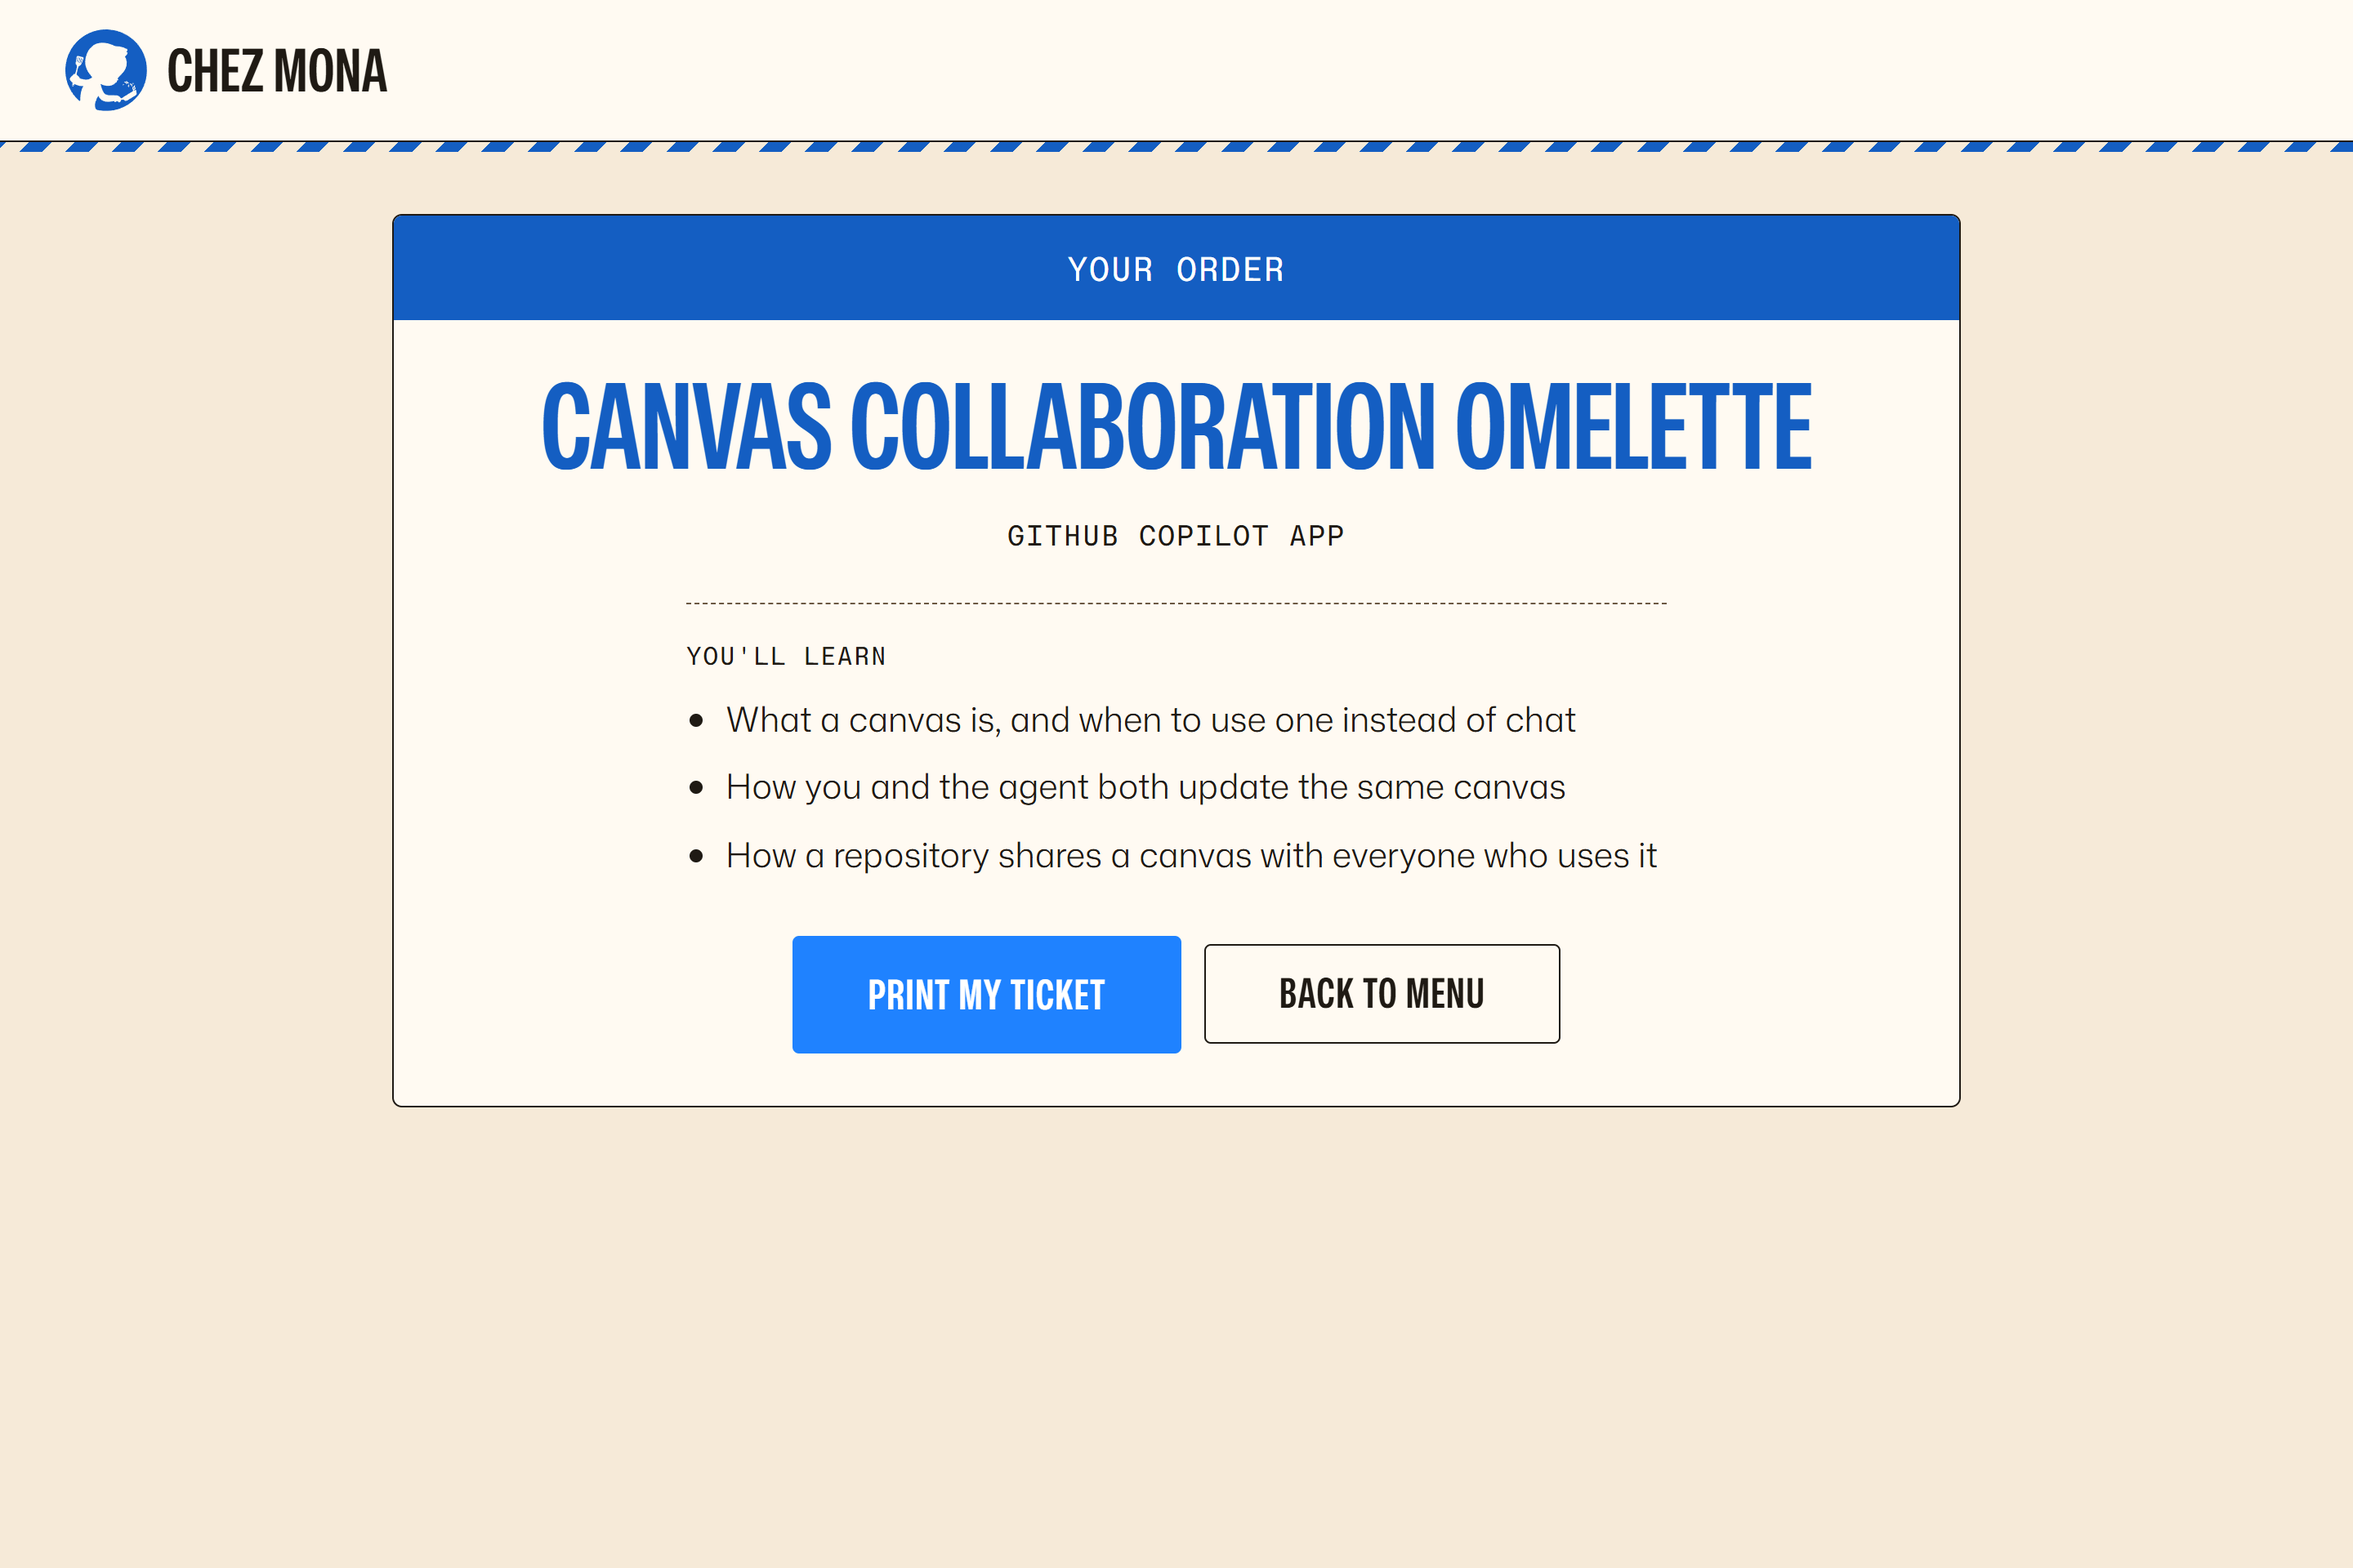
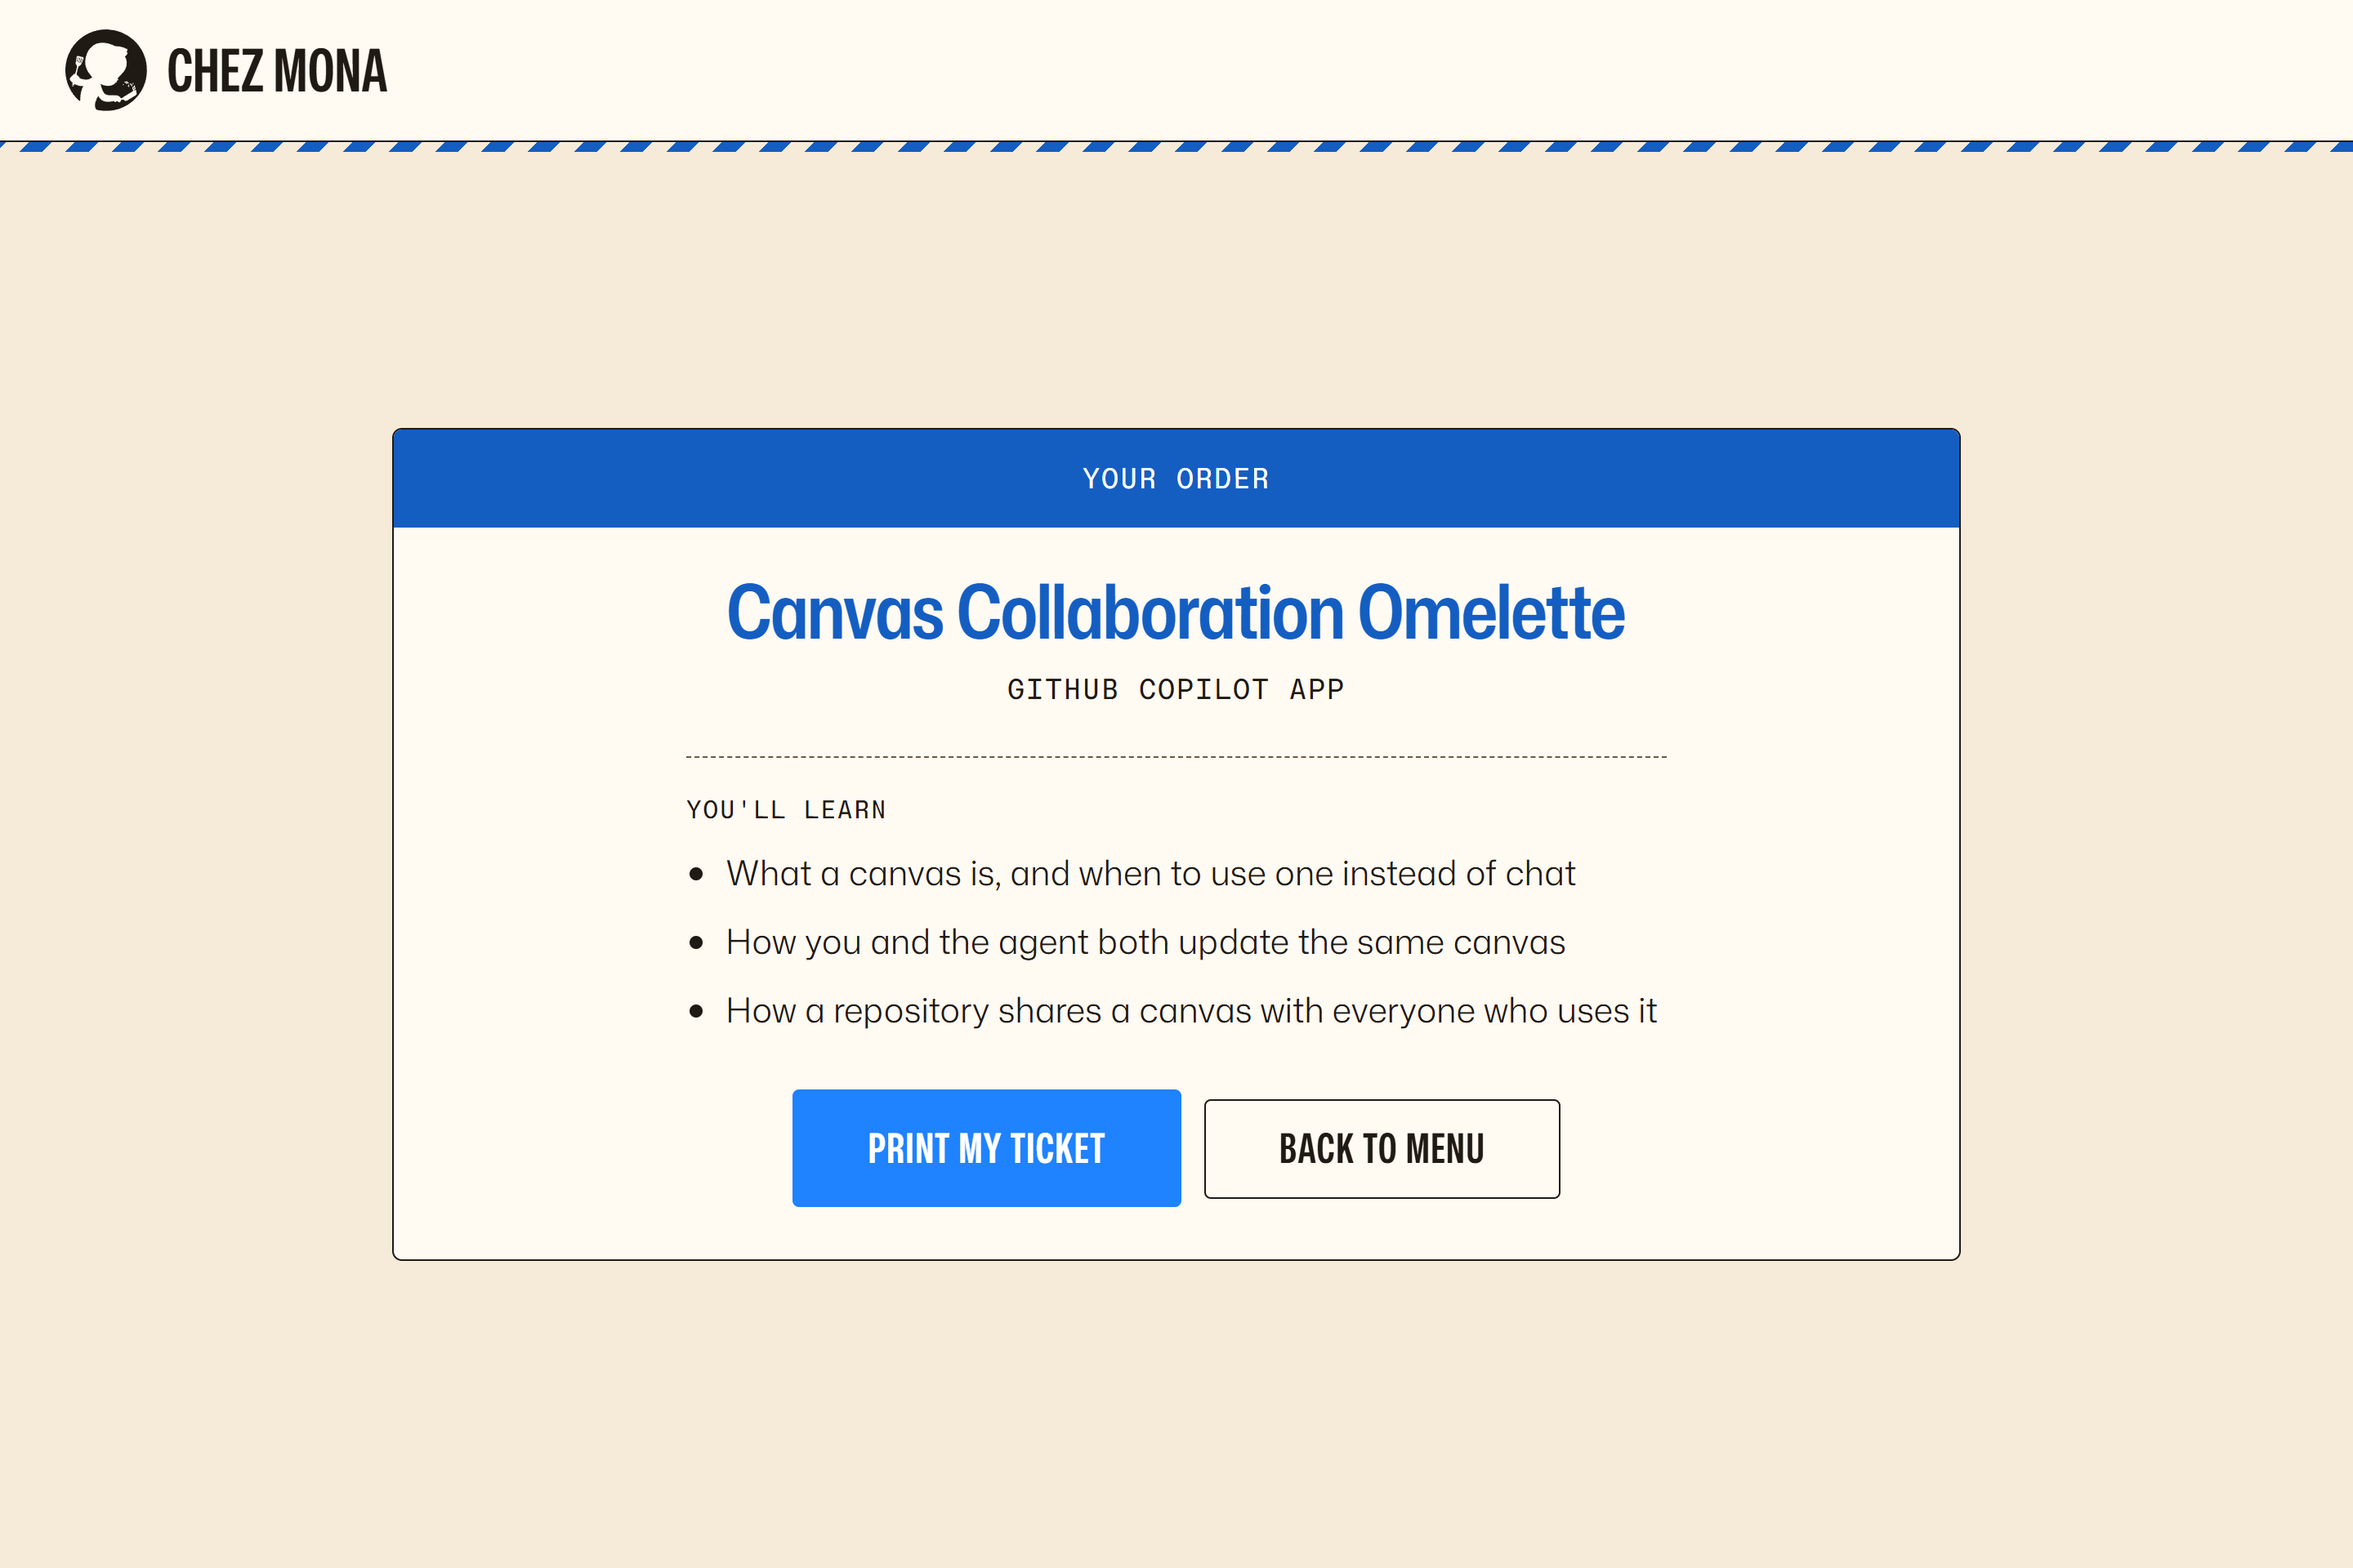
Apply launcher visual feedback
- Use Mona Sans Display SemiCondensed SemiBold in title case for titles
- Use Mona Sans Medium for taglines; split the menu tagline into two lines
- Recolor the Chez Mona logo to charcoal
- Title-case dish names; keep 'Fried Chicken' together on one line
- Fit the order title to the text block; match the order band label size
- Center single-card screens vertically
- Move 'Manually select a lab instead' under the camera
- Align step numbers with the top of each step card
- Refresh screenshots

diff --git a/launcher/static/app.css b/launcher/static/app.css
@@ -52,16 +52,16 @@ html, body {
   font-variant-ligatures: none;
   -webkit-font-smoothing: antialiased;
 }
-body { background: var(--kraft-wash); }
+body { background: var(--kraft-wash); display: flex; flex-direction: column; min-height: 100vh; }
 
 /* Type roles from the Universe'26 Mo's Diner menu, in signage cobalt:
-   condensed semibold caps = titles, light tracked mono = taglines,
+   Display SemiCondensed SemiBold = titles, medium = taglines,
    regular = body, light = descriptions, mono caps = one-line labels.
    No ligatures, per the Universe'26 typography guidelines. */
-h1, h2 {
-  font-stretch: 75%;
+h1, h2, .menu-dish {
+  font-stretch: 87.5%;
   font-weight: 600;
-  text-transform: uppercase;
+  font-variation-settings: "opsz" 72;
   color: var(--ink);
   line-height: 1;
   text-wrap: balance;
@@ -77,7 +77,7 @@ h2 { font-size: 2.4rem; margin: 0 0 0.45em; }
   text-transform: uppercase;
   color: var(--red);
 }
-.lede { font-family: var(--mono); font-size: 1.05rem; font-weight: 300; letter-spacing: 0.06em; color: var(--text); max-width: 38em; text-wrap: pretty; }
+.lede { font-size: 1.05rem; font-weight: 500; color: var(--text); max-width: 38em; text-wrap: pretty; }
 .muted { color: var(--text-soft); font-weight: 300; }
 .small { font-size: 0.85rem; }
 strong { font-weight: 600; }
@@ -199,7 +199,17 @@ button.link:hover:not(:disabled) { background: none; color: var(--blue); }
 .progress li.current::before { opacity: 0.75; }
 .progress[hidden] { display: none; }
 
-main { max-width: 1040px; margin: 0 auto; padding: 44px 40px 56px; }
+main {
+  flex: 1;
+  display: flex;
+  flex-direction: column;
+  width: 100%;
+  max-width: 1040px;
+  margin: 0 auto;
+  padding: 44px 40px 56px;
+}
+/* Single-card screens sit in the middle of the screen */
+main:has(> section.card) { justify-content: center; }
 
 .card {
   background: var(--paper);
@@ -212,10 +222,11 @@ main { max-width: 1040px; margin: 0 auto; padding: 44px 40px 56px; }
 /* Scan */
 .scan { display: grid; justify-items: center; gap: 10px; text-align: center; }
 .scan h1 { font-size: 3.2rem; margin: 0; }
-.scan .lede { margin: 0 0 12px; }
+.scan .lede { margin: 0 0 16px; }
+.scan #choose-lab { margin-top: 22px; }
 .camera {
   position: relative;
-  width: min(640px, 100%, calc(54vh * 4 / 3));
+  width: min(640px, 100%, calc(46vh * 4 / 3));
   aspect-ratio: 4 / 3;
   border-radius: var(--radius);
   overflow: hidden;
@@ -254,7 +265,7 @@ main { max-width: 1040px; margin: 0 auto; padding: 44px 40px 56px; }
   content: counter(step, decimal-leading-zero);
   position: absolute;
   left: 0;
-  top: 18px;
+  top: 0;
   width: 44px;
   height: 44px;
   border-radius: var(--radius-sm);
@@ -387,7 +398,7 @@ pre.detail {
 }
 .menu-item:hover:not(:disabled) { background: var(--kraft-pale); box-shadow: var(--shadow-lift); transform: translateY(-2px); }
 .menu-item:active:not(:disabled) { background: var(--kraft-soft); transform: scale(0.99); }
-.menu-dish { font-stretch: 75%; font-size: 2.4rem; font-weight: 600; text-transform: uppercase; line-height: 1; color: var(--ink); }
+.menu-dish { font-size: 2.1rem; line-height: 1.05; }
 .menu-lab {
   font-family: var(--mono);
   font-size: 0.75rem;
@@ -409,9 +420,10 @@ pre.detail {
   color: var(--white);
   font-family: var(--mono);
   font-weight: 400;
-  font-size: 1rem;
+  font-size: 0.85rem;
   letter-spacing: 1px;
 }
+.confirm h1 { font-size: 2.3rem; max-width: 600px; margin-left: auto; margin-right: auto; }
 .confirm-meta {
   font-family: var(--mono);
   font-size: 0.85rem;

diff --git a/launcher/static/app.js b/launcher/static/app.js
@@ -233,12 +233,12 @@ function renderScan() {
       <p class="eyebrow">Welcome to Chez Mona</p>
       <h1>Scan your ticket</h1>
       <p class="lede">Hold the QR code on your fridge ticket up to the camera.</p>
-      <button id="choose-lab">Manually select a lab instead</button>
       <div class="camera">
         <video id="video" muted playsinline></video>
         <div class="frame"></div>
         <div class="camera-msg" id="camera-msg" hidden></div>
       </div>
+      <button id="choose-lab">Manually select a lab instead</button>
       <p class="notice" id="scan-notice"></p>
     </section>`);
   on("choose-lab", renderMenu);
@@ -251,7 +251,7 @@ function renderMenu() {
     <section class="menu">
       <p class="eyebrow">Today's menu</p>
       <h1>Choose a lab</h1>
-      <p class="lede">Pick a dish by what you want to learn. Each takes about 5 minutes.</p>
+      <p class="lede">Choose a dish based on what you'd like to learn.<br>Each takes about 5 minutes.</p>
       <div class="menu-grid">
         ${Object.values(state.dishes).map((d) => `
           <button class="menu-item" data-dish="${escapeHtml(d.id)}">

diff --git a/launcher/static/fridge.js b/launcher/static/fridge.js
@@ -59,7 +59,7 @@ function renderMenu() {
     <section class="menu">
       <p class="eyebrow">Today's menu</p>
       <h1>What would you like to cook?</h1>
-      <p class="lede">Pick a dish by what you want to learn. Each takes about 5 minutes.</p>
+      <p class="lede">Choose a dish based on what you'd like to learn.<br>Each takes about 5 minutes.</p>
       <div class="menu-grid">
         ${state.dishes.map((d) => `
           <button class="menu-item" data-dish="${escapeHtml(d.id)}">
